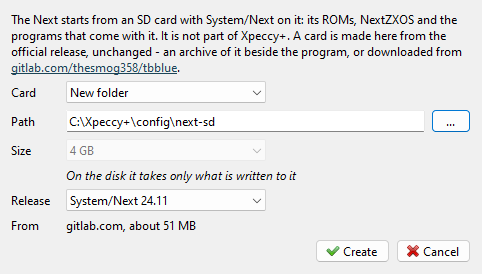
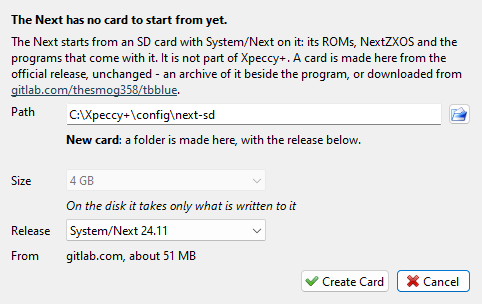
manual: the System/Next Card window reads the path

diff --git a/docs/manual/zx-next.md b/docs/manual/zx-next.md
@@ -48,22 +48,30 @@ program makes a card from the official release when the Next needs one.
 
 ![The ZX Spectrum Next SD Card window](images/next-sd-card.png)
 
-The **ZX Spectrum Next SD Card** window opens by itself the first time the Next has no card
-to start from, and from **Media > SD Card > System/Next Card...** at any time.
+The **ZX Spectrum Next SD Card** window opens by itself when the Next has no card to start
+from: the first time, or when its card was moved, deleted or has no System/Next on it. Its
+first line then says which. **Media > SD Card > System/Next Card...** opens it at any time.
 
 | Field | What it sets |
 |---|---|
-| **Card** | **New folder**, **New image** or **A card I have** |
-| **Path** | where the card goes; **...** picks the place |
+| **Path** | a card you have, or where to make a new one; the button beside it picks a **Folder...** or an **Image...** |
 | **Size** | for a new image, 1 to 16 GB; on the disk it takes only what is written to it |
-| **Release** | the System/Next release to put on the card |
+| **Release** | the System/Next release to put on a new card |
 | **From** | where the release comes from: an archive downloaded before, one beside the program, or gitlab.com, about 51 MB |
 
-**Create** downloads the release, checks it, and makes the card: a folder, `next-sd`, or an
-image, `next-sd.img`, in the settings folder by default. The release goes onto the card
-unchanged. A release with no checksum known to Xpeccy+ is marked **(not checked)**. For
-**A card I have**, the button is **Use**: pick a folder or an image that already has
-System/Next on it.
+The line under **Path** says what the window will do with it:
+
+| Path | The window |
+|---|---|
+| a folder or an image with System/Next on it | **Found**: **Use This Card** puts it in as it is |
+| a new or empty folder | **New card**: **Create Card** makes the card in it |
+| a new name ending in `.img` | **New card**: **Create Card** makes an image of the size chosen |
+| a folder with other files | leaves it alone; a link makes the card in `next-sd` inside it |
+| a file without System/Next | leaves it alone; pick another, or type a new name |
+
+**Create Card** downloads the release, checks it, and makes the card: a folder, `next-sd`, in
+the settings folder by default. The release goes onto the card unchanged. A release with no
+checksum known to Xpeccy+ is marked **(not checked)**.
 
 The new card goes in at once, and the Next starts from it. The archive is downloaded and
 unpacked inside Xpeccy+, with a progress bar and Cancel; on Linux the download uses the
